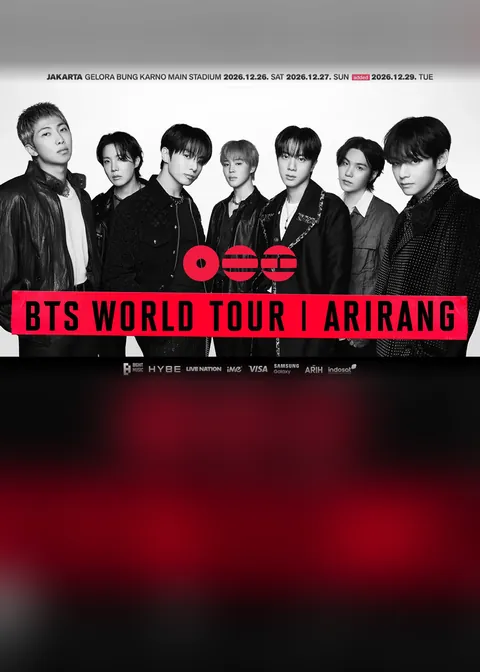
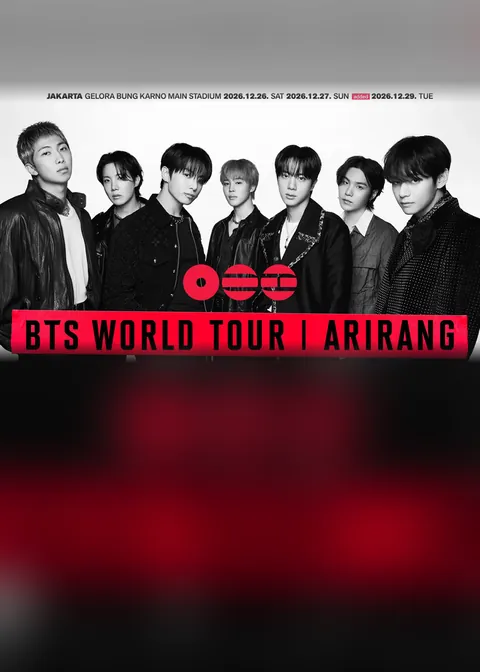
Concert cards: posters lower, a faint veil under the name, a solid stub
The posters sit a little lower, clear of the soft top. Under the name the
blur is lighter and starts lower, so the poster shows through faintly; a
tall poster fades out above the name (event-art.py --to) so its small
print stays out of the way, and the BTS poster loses its sponsor strip on
the card. From the cut down the stub is the ticket's solid dark brown
again, and the name gets a soft shadow.

Claude-Session: https://claude.ai/code/session_01G8gSzz1ajUcAmbsEJXSX49

Changed region(s): [[0.0, 0.0938, 1.0, 0.5625]]

diff --git a/css/styles.css b/css/styles.css
@@ -1466,13 +1466,13 @@ body { counter-reset: sec; }
 /* The poster is soft under the logo and date, sharp in the middle and soft again towards
    the name, so its own lettering never fights the card's. The middle keeps the poster's own
    colours; a light shade at the top and a thin dark one under the name keep the type clear
-   and let the poster show through. */
+   and let the poster show through. Below the cut the stub is solid (.tkt-cut). */
 .tkt-bg::before, .tkt-bg::after { content: ""; position: absolute; inset: 0; z-index: 1; }
 .tkt-bg::before { -webkit-backdrop-filter: blur(9px); backdrop-filter: blur(9px);
-  -webkit-mask: linear-gradient(180deg, #000 14%, transparent 32%, #000 58%); mask: linear-gradient(180deg, #000 14%, transparent 32%, #000 58%); }
+  -webkit-mask: linear-gradient(180deg, #000 14%, transparent 32%, transparent 50%, rgba(0, 0, 0, 0.55) 80%); mask: linear-gradient(180deg, #000 14%, transparent 32%, transparent 50%, rgba(0, 0, 0, 0.55) 80%); }
 .tkt-bg::after { background:
   linear-gradient(180deg, rgba(12, 8, 6, 0.45) 0%, rgba(12, 8, 6, 0) 24%),
-  linear-gradient(180deg, rgba(30, 14, 10, 0) 36%, rgba(30, 14, 10, 0.42) 54%, rgba(30, 14, 10, 0.6) 72%, rgba(30, 14, 10, 0.74) 100%); }
+  linear-gradient(180deg, rgba(30, 14, 10, 0) 42%, rgba(30, 14, 10, 0.32) 58%, rgba(30, 14, 10, 0.55) 76%); }
 .tkt-in { position: relative; display: flex; flex-direction: column; align-items: center; height: 100%; padding: 30px 22px 30px; text-align: center; }
 .tkt-top { display: flex; justify-content: space-between; align-items: flex-start; width: 100%; gap: var(--s4); margin-bottom: auto;
   text-shadow: 0 1px 10px rgba(0, 0, 0, 0.4); } /* stays legible on a light poster */
@@ -1485,8 +1485,10 @@ body { counter-reset: sec; }
 .tkt-when span { display: block; margin-top: 4px; font: 400 11px/1.35 var(--display); color: rgba(255, 255, 255, 0.78); text-wrap: balance; }
 .tkt-tags { display: flex; flex-wrap: wrap; justify-content: center; gap: 4px; margin: var(--s5) 0 10px; }
 .tkt .tkt-title { margin-top: 6px; font: 500 clamp(44px, 4.4vw, 62px)/0.9 var(--display); letter-spacing: -0.005em; text-transform: uppercase; text-wrap: balance; }
-.tkt .tkt-title a { color: #fff; }
-.tkt-cut { width: calc(100% + 44px); margin: var(--s5) -22px 0; border-top: 2px dashed rgba(255, 255, 255, 0.55); }
+.tkt .tkt-title a { color: #fff; text-shadow: 0 2px 18px rgba(0, 0, 0, 0.45); }
+.tkt-cut { position: relative; width: calc(100% + 44px); margin: var(--s5) -22px 0; border-top: 2px dashed rgba(255, 255, 255, 0.55); }
+/* The stub, from the cut down, is the ticket's own dark brown; the card clips it at the foot. */
+.tkt-cut::after { content: ""; position: absolute; top: 0; left: 0; right: 0; height: 320px; z-index: -1; background: linear-gradient(180deg, #2a120c, #3a170c 120px); }
 .tkt-foot { display: flex; align-items: flex-end; justify-content: space-between; gap: var(--s4); width: 100%; margin-top: var(--s4); text-align: left; }
 .tkt-code small { display: block; margin-bottom: 8px; font: 400 14px/1 var(--display); letter-spacing: 0.06em; text-transform: uppercase; }
 .tkt-code .barcode { width: 120px; height: 38px; color: #fff; }

diff --git a/scripts/event-art.py b/scripts/event-art.py
@@ -1,7 +1,7 @@
 """Draws a concert's artwork for the site from its poster (needs Pillow).
 
   python3 scripts/event-art.py <poster file> <key> [--card cover|band|top] [--at 0.33]
-                               [--crop x0,y0,x1,y1] [--wide <name>]
+                               [--to 1] [--crop x0,y0,x1,y1] [--wide <name>]
 
 Writes assets/events/card/<key>.webp (800 x 1120, 5:7, the ticket card) and a 480 px copy.
 With --wide, also assets/events/<name>.webp (1200 x 800, 3:2, the concert page and the stage
@@ -14,7 +14,8 @@ How the poster goes on the card:
          a share of the card's height (the card's date and logo take the top sixth, its
          name the part below the middle). --crop trims the poster first (shares of its size);
          the blurred copy behind it stays whole.
-  top    full width from --at down, the rest cut off: a tall poster whose title is at its top.
+  top    full width from --at down to --to, fading out there: a tall poster whose title is
+         at its top, its small print kept from under the card's name.
 The 3:2 file shows the poster whole, over a blurred copy of itself if it has another shape.
 """
 import argparse, os
@@ -49,15 +50,15 @@ def soft(w, h, edges, f):
     return m
 
 
-def draw(im, w, h, mode='band', at=0.5, bg=None):
+def draw(im, w, h, mode='band', at=0.5, bg=None, to=1.0):
     if mode == 'cover' or abs(im.width / im.height - w / h) < 0.02:
         return cover(im, w, h)
     out = backdrop(bg or im, w, h)
     if mode == 'top':
         y = round(h * at)
         art = im.resize((w, round(w * im.height / im.width)), Image.LANCZOS)
-        art = art.crop((0, 0, w, min(h - y, art.height)))
-        out.paste(art, (0, y), soft(w, art.height, 't' + ('b' if y + art.height < h else ''), 36))
+        art = art.crop((0, 0, w, min(round(h * to) - y, art.height)))
+        out.paste(art, (0, y), soft(w, art.height, 't' + ('b' if y + art.height < h else ''), 36 if to >= 1 else 90))
     elif im.width / im.height > w / h:
         bh = round(w * im.height / im.width)
         y = min(max(round(h * at - bh / 2), 0), h - bh)
@@ -79,6 +80,7 @@ if __name__ == '__main__':
     a.add_argument('poster'); a.add_argument('key')
     a.add_argument('--card', choices=['cover', 'band', 'top'], default='band')
     a.add_argument('--at', type=float, default=0.33)
+    a.add_argument('--to', type=float, default=1.0)
     a.add_argument('--crop'); a.add_argument('--wide')
     o = a.parse_args()
     im = Image.open(o.poster).convert('RGB')
@@ -87,6 +89,6 @@ if __name__ == '__main__':
         x0, y0, x1, y1 = (float(v) for v in o.crop.split(','))
         card = im.crop((round(x0 * im.width), round(y0 * im.height), round(x1 * im.width), round(y1 * im.height)))
     os.makedirs(os.path.join(OUT, 'card'), exist_ok=True)
-    save(draw(card, 800, 1120, o.card, o.at, bg=im), os.path.join(OUT, 'card', o.key), 480)
+    save(draw(card, 800, 1120, o.card, o.at, bg=im, to=o.to), os.path.join(OUT, 'card', o.key), 480)
     if o.wide:
         save(draw(im, 1200, 800), os.path.join(OUT, o.wide), 640)
